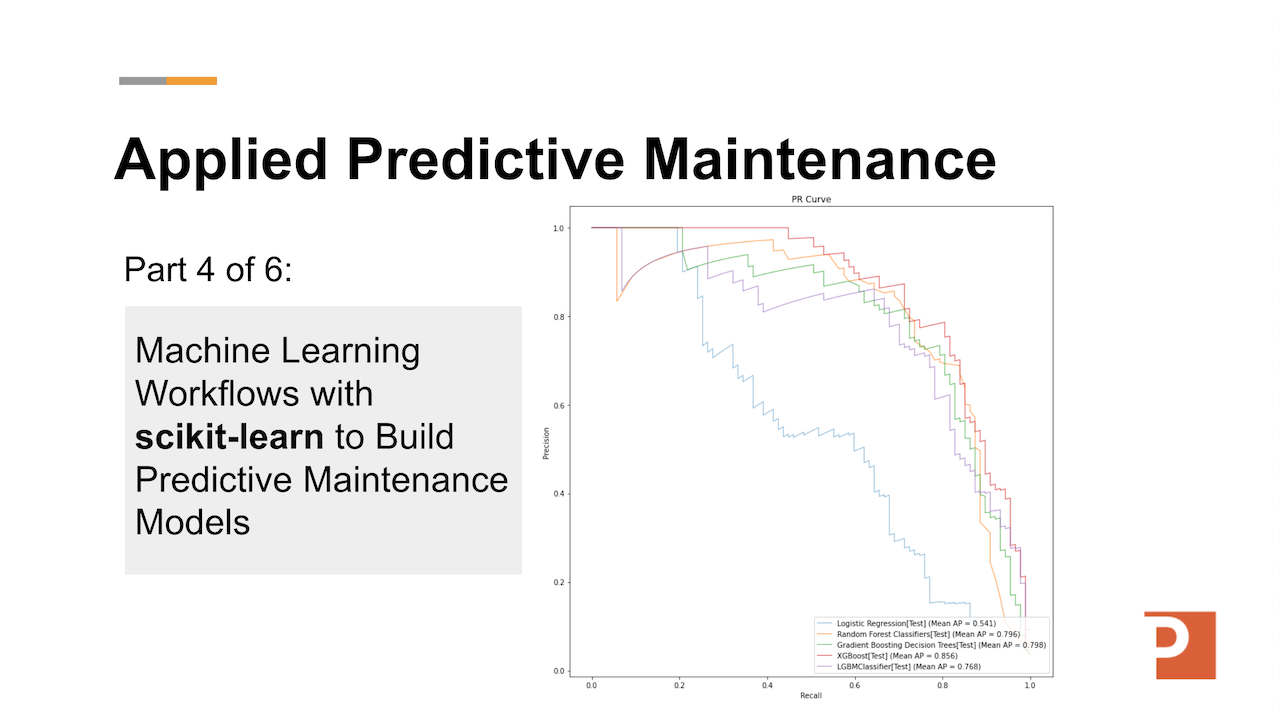
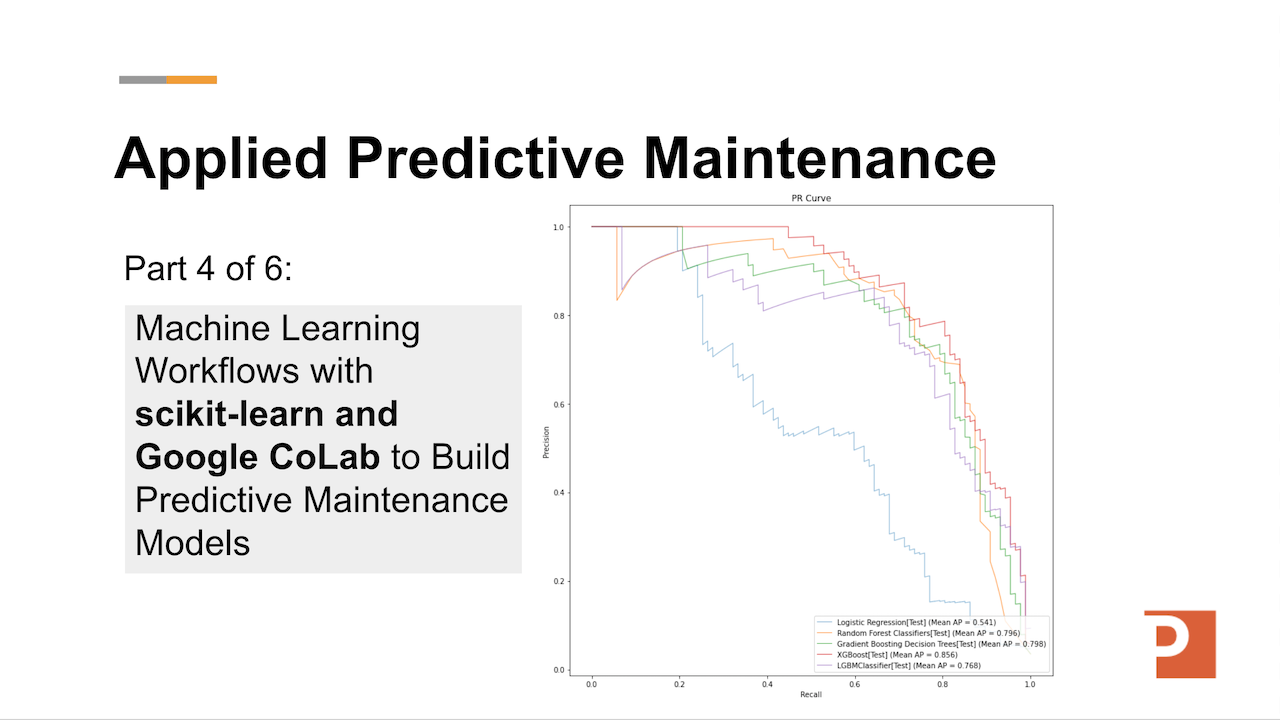
tweaked title

diff --git a/blog/predictive_maintenance_w_snowflake_ml_part_4_modeling.html b/blog/predictive_maintenance_w_snowflake_ml_part_4_modeling.html
@@ -21,18 +21,18 @@
 	<meta name="viewport" content="width=device-width, initial-scale=1">
 
 <meta name="description" content="In this blog post series on building a real-world predictive maintenance application, we'll start with a business case from a fictional manufacturing company (ACME Tool Co.) and we'll work through how the company makes a business case and then builds a predictive application to meet the business requirements." />
-	<meta name="keywords" content="snowflake, predictive maintenance, exploratory data analysis, machine learning, data science, snowpark" />
+	<meta name="keywords" content="snowflake, predictive maintenance, machine learning, data science, snowpark, sci-kit learn, google colab" />
 	<meta name="author" content="Patterson Consulting" />
 
   	<!-- Facebook and Twitter integration -->
-	<meta property="og:title" content="Applied Predictive Maintenance Part 4 of 6: Machine Learning Workflows with Sci-Kit Learn to Build Predictive Maintenance Models"/>
+	<meta property="og:title" content="Applied Predictive Maintenance Part 4 of 6: Machine Learning Workflows with Sci-Kit Learn and Google CoLab to Build Predictive Maintenance Models"/>
 	<meta property="og:image" content="http://www.pattersonconsultingtn.com/blog/images/meta_og_images/pct_apm_p4_og_card.png"/>
 	<meta property="og:url" content="http://www.pattersonconsultingtn.com/blog/predictive_maintenance_w_snowflake_ml_part_4_modeling.html"/>
 	<meta property="og:site_name" content=""/>
 	<meta property="og:description" content="In this blog post series on building a real-world predictive maintenance application, we'll start with a business case from a fictional manufacturing company (ACME Tool Co.) and we'll work through how the company makes a business case and then builds a predictive application to meet the business requirements."/>
 	
 
-	<meta name="twitter:title" content="Applied Predictive Maintenance Part 4 of 6: Machine Learning Workflows with Sci-Kit Learn to Build Predictive Maintenance Models" />
+	<meta name="twitter:title" content="Applied Predictive Maintenance Part 4 of 6: Machine Learning Workflows with Sci-Kit Learn and Google CoLab to Build Predictive Maintenance Models" />
 	<meta data-rh="true" property="twitter:description" content="In this blog post series on building a real-world predictive maintenance application, we'll start with a business case from a fictional manufacturing company (ACME Tool Co.) and we'll work through how the company makes a business case and then builds a predictive application to meet the business requirements."/>
 
 	<meta name="twitter:image" content="http://www.pattersonconsultingtn.com/blog/images/meta_og_images/pct_apm_p4_og_card.png" />
@@ -225,7 +225,7 @@ pre {
 					<div class="col-md-12" id="fh5co-content">
 						<h1>Applied Predictive Maintenance</h1>
 						<p>
-							<h3>Part 4 of 6: "Machine Learning Workflows with Sci-Kit Learn to Build Predictive Maintenance Models"</h3>
+							<h3>Part 4 of 6: "Machine Learning Workflows with Sci-Kit Learn and Google CoLab to Build Predictive Maintenance Models"</h3>
 
 						</p>
 						<p>
